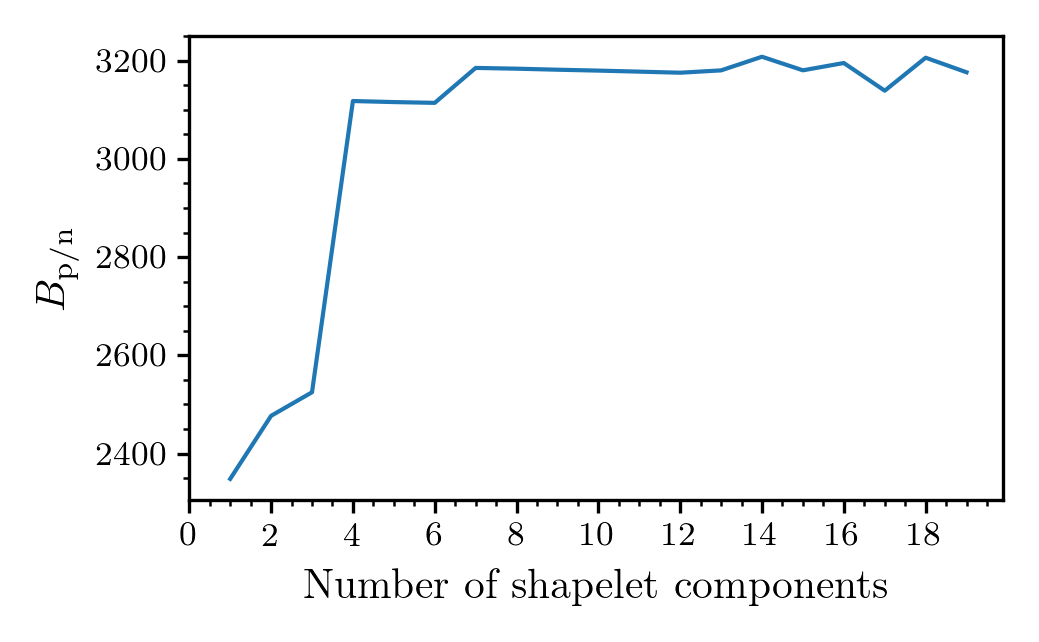
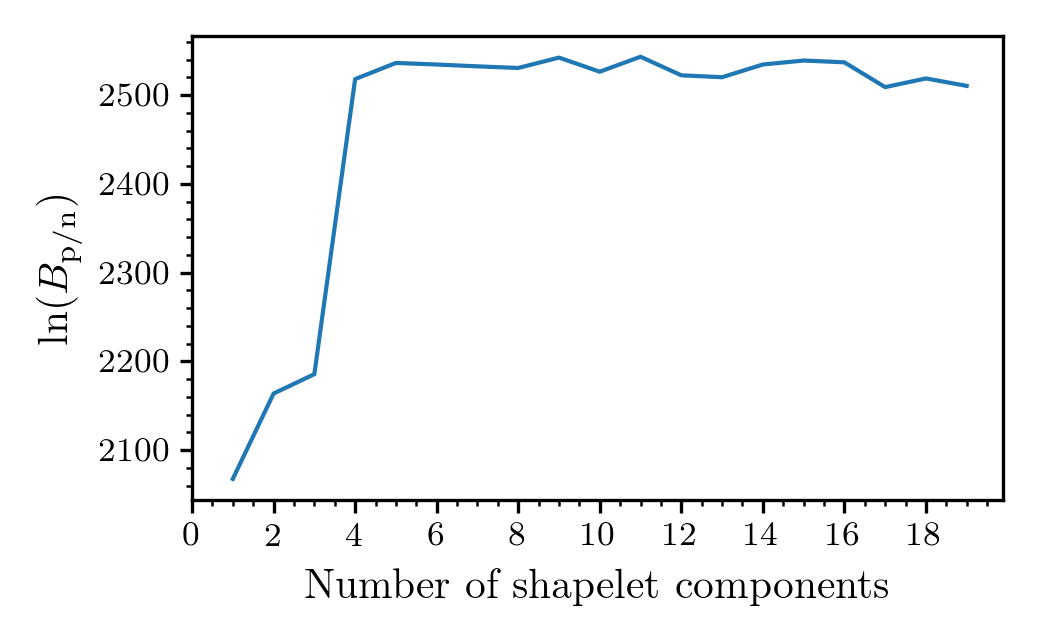
Update paper

diff --git a/paper/paper.md b/paper/paper.md
@@ -20,13 +20,14 @@ bibliography: paper.bib
 # Summary
 
 Radio pulsars are rapidly-spinning highly-magnetized neutron stars which
-produce a lighthouse-like beam of radiation. This radiation is observed by
-radio telescopes as periodic pulsations. Kookaburra provides a method to fit
-flux models to individual pulsations, building on the notion of profile-domain
-time (see, e,g @lentati:2014, @lentati:2015). Fitting is performed by stochastic
-sampling methods building on the bilby [@bilby:2019] Bayesian inference
-library. An executable, `kb_single_pulse` provides the primary interface, but
-more complicated models can be fit using the underlying python API.
+produce a lighthouse-like beam of radiation [@hewish:1986; @pacini:1967;
+@gold:1968]. This radiation is observed by radio telescopes as periodic
+pulsations. Kookaburra provides a method to fit flux models to individual
+pulsations, building on the notion of profile-domain timing (see, e,g
+@lentati:2014, @lentati:2015). Fitting is performed by stochastic sampling
+methods using the bilby [@bilby:2019] Bayesian inference library. The primary
+interface is the executable, `kb_single_pulse`, but more complicated models can
+be fit using the underlying python API.
 
 # Flux model
 
@@ -36,16 +37,18 @@ shapelet model proposed in @refregier:2003. We define shapelets as
 $$ f(t) = \sum_{i=0}^{n_s} C_{i} H_{i}(t/\beta) e^{-t^2 / \beta^2} \,, $$
 
 where $C_{i}$ are the shapelet coefficients, $H_{i}$ is the Hermite polynomial
-of degree $i$, and $\beta$ is a width parameter. The complete single-component
-shapelet flux model fit to the data is then $f(t - \tau)$ where $\tau$ is the
-pulse time of arrival. Kookaburra provides the option to fit multiple additive
-shapelet flux models at the same time with a prior on the time of arrival
-uniformly distributed between the components.
+of degree $i$, and $\beta$ is a width parameter. Our modification simplifies
+the definition of the coefficients, removing, in particular, a factor of
+$1/\beta$ and resulting in an orthogonal, but not orthonormal basis. The
+complete single-component shapelet flux model fit to the data is then $f(t -
+\tau)$ where $\tau$ is the pulse time of arrival. Kookaburra provides the
+option to fit multiple additive shapelet flux models at the same time with a
+prior on the time of arrival uniformly distributed between the components.
 
-In addition to the pulse itself, radio-pulsar data often contains a background
-flux. We model this by a polynomial base-flux model of arbitrary degree with
-reference time centred to the middle of the observation. The complete flux
-model used in fitting can, therefore, be expressed as
+In addition to the pulse itself, radio-pulsar data usually contains a
+background flux. We model this by a polynomial base-flux model of arbitrary
+degree with reference time centred to the middle of the observation. The
+complete flux model used in fitting is therefore
 
 \begin{equation}\label{eqn:full_flux}
 F(t) = \sum_{i=0}^{n_p} B_{i}(t - t_{mid})^{i} + \sum_{j=0}^{n_m} f(t - \tau)\,
@@ -60,39 +63,39 @@ the set of flux models in `kookaburra.flux`.
 # Null and Pulse models
 
 In analysing a set of data, we can estimate the probability of a null by
-running an analysis excluding the components of the flux model intended to model
-the pulsation itself. Using the polynomial base flux, our null model is
+running an analysis excluding the components of the flux model intended to
+model the pulsation itself. Using the polynomial base flux, our null model is
 
 \begin{equation}\label{eqn:null_flux}
 F(t) = \sum_{i=0}^{n_p} B_{i}(t - t_{mid})^{i}
 \end{equation}
 
-Fitting \autoref{eqn:full_flux} and \autoref{eqn:null_flux}, the difference
-in log-evidences obtained from each constitues a Bayes factor $B_{\rm p/n}$
+Fitting \autoref{eqn:full_flux} and \autoref{eqn:null_flux}, the difference in
+log-evidences obtained from each constitues a Bayes factor $B_{\rm p/n}$
 quantifying the probability the data contains a pulsation vs. a null.
 
 # Slab-spike priors
 
 The flux-model coefficients, $C_i$ determine the contribution of each term in
-the shapelet model to the overall flux. We implement a so-called slab-spike
+the shapelet model to the overall flux. kookaburra uses a so-called slab-spike
 prior (see, e.g. @malsiner:2018). This a mixture-model prior given by
 
 $$ \pi(C_i) = \left\{ \begin{array}{cc} \xi & \textrm{ if } C_i = \hat{C}_i \\ (1-\xi)\pi'(C_i)  & \textrm{otherwise} \end{array}\right.\,, $$
 
 where $\xi$ determines the mixing fraction between the spike $\hat{C}_i$ and
 the slab $\pi'(C_i)$. We then choose the spike to be at zero (i.e. the
-contribution from the $i^{\rm th}$ component is zero) and the slab to be
-a uniform distribution. The slab-spike prior greatly improves the performance of
-the stochastic sampling algorithm as it can 'turn off' components which
-do not improves the fit to the data.
+contribution from the $i^{\rm th}$ component is zero) and the slab to be a
+uniform distribution. The slab-spike prior greatly improves the performance of
+the stochastic sampling algorithm as it can 'turn off' components which do not
+improve the fit to the data.
 
 # Maximum number of components
 
 The optimal (in the sense of maximising the Bayesian model evidence) number of
 shapelet models $n_m$, the number of components for each model $n_s$, and the
 degree of the base polynomial $b_p$ is unknown for any data set (except in the
-case of simulated data). This means we have uncertainty about the
-model-space dimensionality. Typical stochastic sampling algorithms require a
+case of simulated data). This means we have uncertainty about the model-space
+dimensionality. Typical stochastic sampling algorithms require a
 fixed-dimensional space to satisfy their underlying assumptions and ensure the
 results are a proper reflection of the posterior distribution and evidence.
 Reversible-jump MCMC (RJMCMC) methods [@green:1995] enable trans-dimensional
@@ -101,11 +104,12 @@ each dimension, marginalized over the full uncertainty. However, RJMCMC methods
 typically require specialised implementations for the problem in hand.  When
 faced with an unknown model dimensionality, a cheap and effective alternative
 to implementing an RJMCMC sampler is to run identical analyses, but varying the
-model dimensionality. For kookaburra, we find that setting a sufficiently
-large number of components (determined experimentally) combined with the
-slab-spike priors results in an efficient sampling of high-dimensional spaces.
-The maximum number of components will depend on the analysis at hand, in the
-literature, values as large as 30 are typical [@lentati:2017].
+model dimensionality. For kookaburra, we find that setting a sufficiently large
+number of components (determined experimentally) combined with the slab-spike
+priors results in an efficient sampling of high-dimensional spaces.  The
+maximum number of components will depend on the analysis at hand, in the
+literature, values as large as 30 are typical [@lentati:2017] for radio pulsar
+profiles. 
 
 To demonstrate the behaviour of kookaburra with a varying number of components,
 we create a simulated data set based on the profile of PSR J0835-4510, also
@@ -116,32 +120,41 @@ six components, vast improvements in the fit are achieved by the addition of
 extra components. Above six, modest improvements are made as more subtle
 features get fit. Eventually, the Bayes factor will turn over and start to
 decrease as additional components fail to improve the fit, but incur extra
-losses from the Occam factor [@mackay:2003]. In \autoref{fig:fit}, we show the
-output of kookaburra, for the 19-component model fit to the simulated data.
+losses from the increased prior space (also known as the Occam penalty
+[@mackay:2003]). In \autoref{fig:fit}, we show the output of kookaburra, for
+the 19-component model fit to the simulated data. From this fit, it is clear
+that we have not found a perfect fit for the data. In particular, the residual
+demonstrates structure indicating the existence of an improved model fit.
 
 ![Bayes factor for the pulse vs null applied to simulated data similar to the Vela pulsar.\label{fig:bayes_factor}](bayes_factor.png)
 
-![Top panel: the simulated data (blue), maximum likelihood fit (green), and 90\% confidence interval (C.I.) of the fit (orange) for the 19-component shapelet model fit. Bottom panel: the residual after removing the maximum likelihood (blue) and 90\% C.I uncertainty (orange) \label{fig:fit}](fit_with_data.png)
+![Top panel: the simulated data (blue), maximum likelihood fit (green), and 90\% confidence interval (C.I.) of the fit (orange) for the 19-component shapelet model fit. Bottom panel: the residual after removing the maximum likelihood (blue) and 90\% C.I uncertainty (orange). A grey region indicates the user-settable prior region for the pulse time of arrival. \label{fig:fit}](fit_with_data.png)
 
 # Validation
 
 To validate that the kookaburra implementation is unbiased, we simulate 100
 pulses with a 10-component shapelet and polynomial base-flux of degree 2. We
 run kookaburra on each simulated data set then, in \autoref{fig:pp}, we plot a
-parameter-parameter (PP) plot [@cook:2006] using these posteriors calculated
-for these 100 simulated data sets. The plot demonstrates that each of the model
-parameters fit produces a diagonal line on the PP-plot, i.e. the X\% confidence
-interval (C.I.) contains the true simulated value X\% of the time (to within
-the statistical uncertainties). 
+parameter-parameter (PP) plot [@cook:2006] using the posterior samples
+calculated for these 100 simulated data sets. The plot demonstrates that each
+of the model parameters fit produces a diagonal line on the PP-plot, i.e. the
+X\% confidence interval (C.I.) contains the true simulated value X\% of the
+time (to within the statistical uncertainties). This demonstrates that for the
+default settings (i.e. the pymultinest sample [@buchner:2014] with 1000 live
+points), kookaburra is unbiased in its estimation of the shapelet parameters.
+Since the model complexity is user-settable, we cannot guarantee that the
+default settings will apply in general and recommend users carefuly check for
+convergence and, if neccsery, run a PP test to validate performance in the
+given circumstances of interest.
 
 ![Parameter-parameter test for simulated data with 10-component shapelet and base flux of degree 2.\label{fig:pp}](pp_S10_BS2.png)
 
-# Outlook
+# Conclusions
 
 The kookaburra software provides an easy-to-use interface for shapelet
-modelling of radio pulsar profiles. Many extensions could
-be implemented in future, such as frequency-dependent shapelet models,
-alternative fitting algorithms such as maximum-likelihood methods.
+modelling of radio pulsar profiles. We anticipate the community finding a
+number of interesting applications in its current form such as systematic
+studies of the pulse-shape variations. 
 
 # Acknowledgements
 
@@ -149,8 +162,8 @@ kookaburra builds on an extensive software stack and the authors appreciate the
 efforts of the community to build a vibrant ecosystem which makes work such as
 this possible. kookaburra uses `scipy` [@scipy:2020], `numpy` [@oliphant:2006],
 and `pandas` [@pandas:2010; @pandas:2020] for data handling and manipulation;
-`matplotlib` [@hunter:2007] for visualisation; `bilby` [@bilby:2019] for Bayesian
-inference-related aspects. All results in this work were generated using the
-`pymultinest` sampler [@buchner:2014].
+`matplotlib` [@hunter:2007] for visualisation; `bilby` [@bilby:2019] for
+Bayesian inference-related aspects. All results in this work were generated
+using the`pymultinest` sampler [@buchner:2014].
 
 # References
